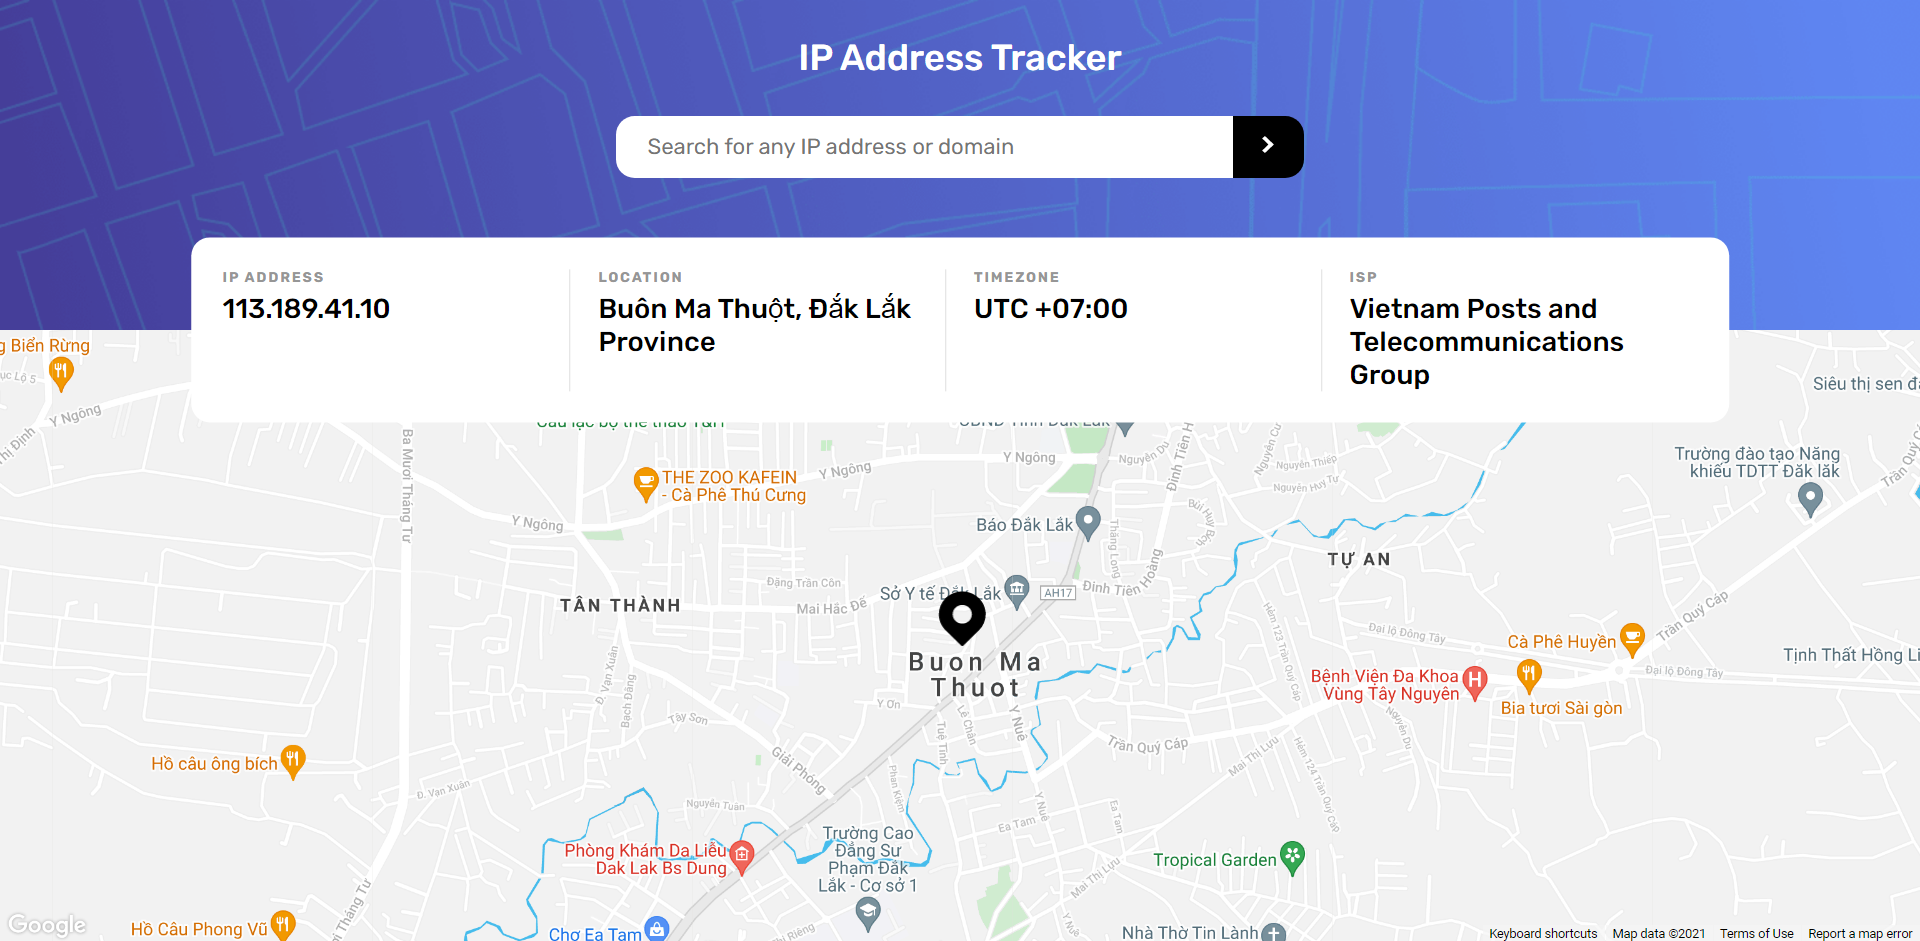
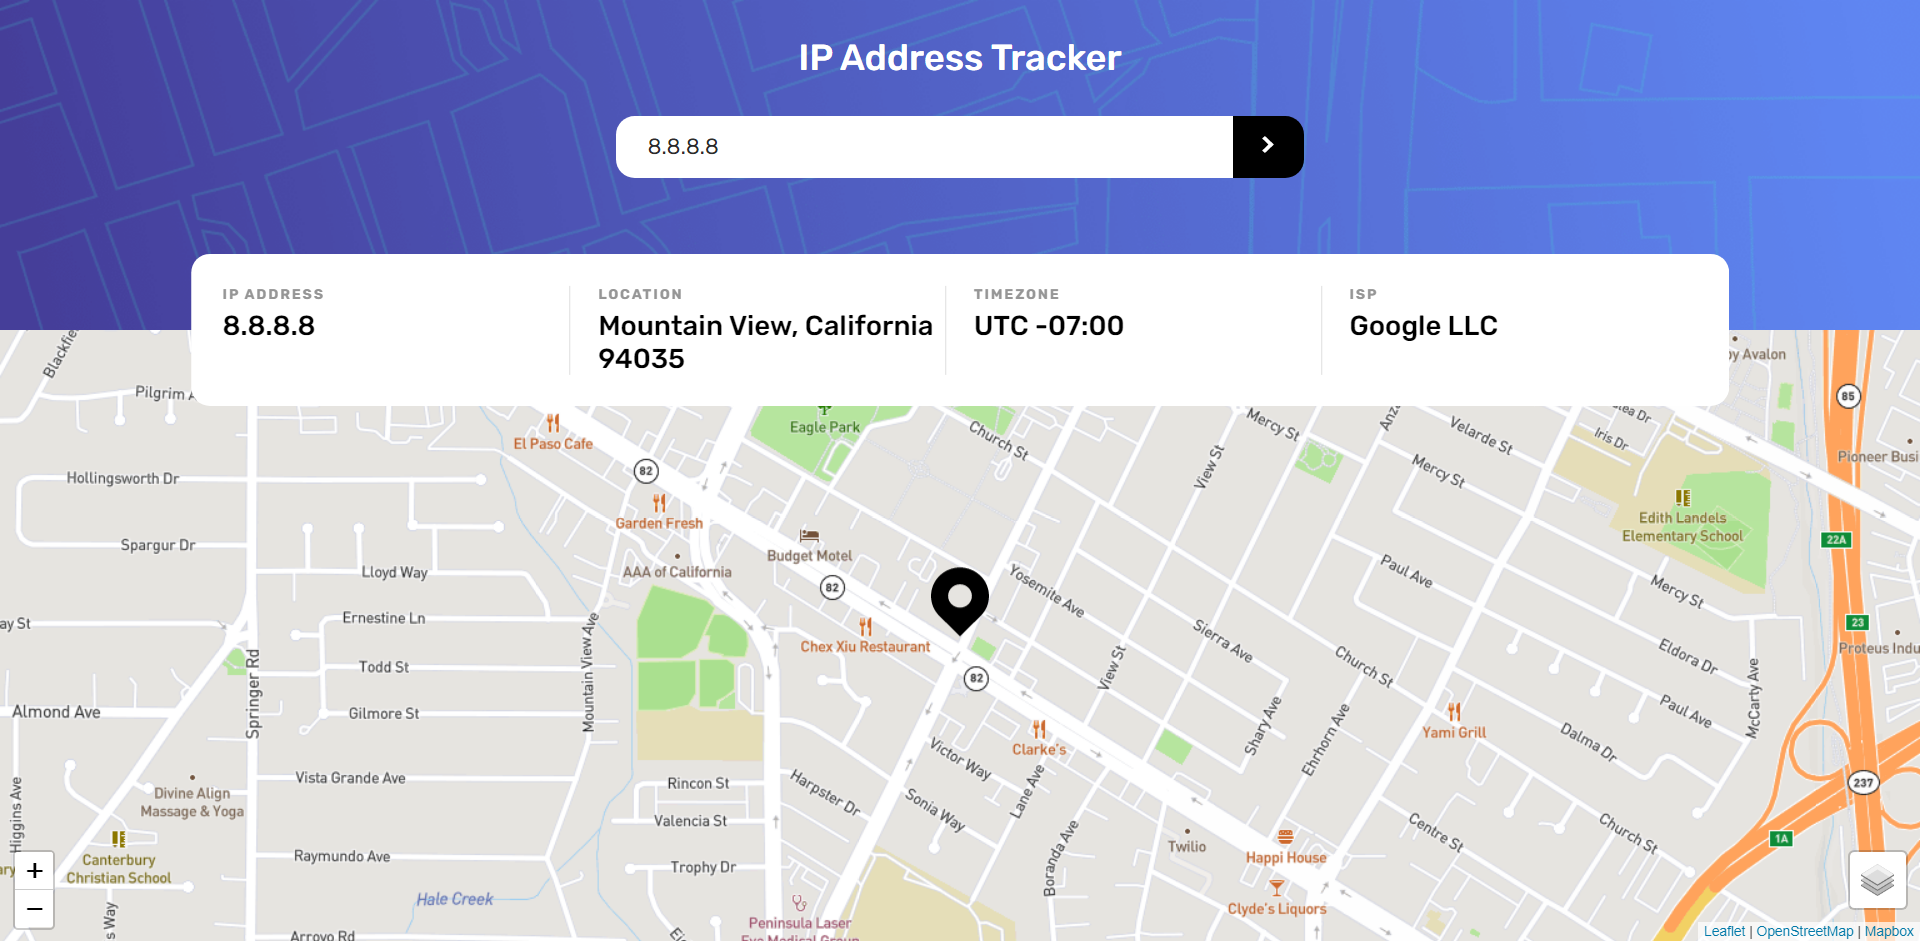
Use other api to generate map

diff --git a/ip-address-tracker/dist/assets/js/script.js b/ip-address-tracker/dist/assets/js/script.js
@@ -1,2 +1,2 @@
-const addressInput=document.querySelector(".address-input"),submitBtn=document.querySelector(".search-btn"),errorMess=document.querySelector(".error"),ipAddress=document.querySelector(".ip-address"),loc=document.querySelector(".location"),timezone=document.querySelector(".timezone"),isp=document.querySelector(".isp"),api_key="at_NV6KNutm5C29wr5oS76HFrgdWcSkH";function searchTracker(){let e=addressInput.value.trim();checkValidDomain(e)?(errorMess.classList.contains("visible")&&errorMess.classList.remove("visible"),ipTracker(e,"domain")):checkValidIpv4(e)||checkValidIpv6(e)?(errorMess.classList.contains("visible")&&errorMess.classList.remove("visible"),ipTracker(e)):(errorMess.innerText="Please enter a valid IP",errorMess.classList.add("visible"))}async function getDeviceAddress(){let e=await fetch("https://api.ipify.org?format=json");if(!e)throw new Error(`HTTP error! status: ${e.statusText}`);return await e.json()}async function ipTracker(e,t="ip"){try{let a="ipAddress="+e;"domain"===t&&(a=a.replace("ipAddress","domain"));let r=await fetch(`https://geo.ipify.org/api/v1?apiKey=${api_key}&${a}`);if(!r.ok)throw new Error(`Cannot fetch the data (${r.statusText})`);let s=await r.json();return ipAddress.innerHTML=s.ip,loc.innerHTML=s.location.city+", "+s.location.region+" "+s.location.postalCode,timezone.innerHTML="UTC "+s.location.timezone,isp.innerHTML=s.isp,getMarker(s),s}catch(e){errorMess.innerText="Bad Request!",errorMess.classList.add("visible"),console.log(e.message)}}let map,marker;function initMap(){map=new google.maps.Map(document.getElementById("map"),{zoom:15,center:{lat:16.075239,lng:108.224136},disableDefaultUI:!0,styles:mapstyles})}function getMarker(e){const t={lat:e.location.lat,lng:e.location.lng},a={path:"M39.263 7.673c8.897 8.812 8.966 23.168.153 32.065l-.153.153L23 56 6.737 39.89C-2.16 31.079-2.23 16.723 6.584 7.826l.153-.152c9.007-8.922 23.52-8.922 32.526 0zM23 14.435c-5.211 0-9.436 4.185-9.436 9.347S17.79 33.128 23 33.128s9.436-4.184 9.436-9.346S28.21 14.435 23 14.435z",fillOpacity:1,strokeWeight:0,rotation:0,scale:.8,anchor:new google.maps.Point(21,46)};marker=new google.maps.Marker({position:t,map:map,icon:a}),map.setCenter(t)}function checkValidIpv4(e){return/^(([0-9]|[1-9][0-9]|1[0-9]{2}|2[0-4][0-9]|25[0-5])\.){3}([0-9]|[1-9][0-9]|1[0-9]{2}|2[0-4][0-9]|25[0-5])$/.test(e)}function checkValidIpv6(e){return/(([0-9a-fA-F]{1,4}:){7,7}[0-9a-fA-F]{1,4}|([0-9a-fA-F]{1,4}:){1,7}:|([0-9a-fA-F]{1,4}:){1,6}:[0-9a-fA-F]{1,4}|([0-9a-fA-F]{1,4}:){1,5}(:[0-9a-fA-F]{1,4}){1,2}|([0-9a-fA-F]{1,4}:){1,4}(:[0-9a-fA-F]{1,4}){1,3}|([0-9a-fA-F]{1,4}:){1,3}(:[0-9a-fA-F]{1,4}){1,4}|([0-9a-fA-F]{1,4}:){1,2}(:[0-9a-fA-F]{1,4}){1,5}|[0-9a-fA-F]{1,4}:((:[0-9a-fA-F]{1,4}){1,6})|:((:[0-9a-fA-F]{1,4}){1,7}|:)|fe80:(:[0-9a-fA-F]{0,4}){0,4}%[0-9a-zA-Z]{1,}|::(ffff(:0{1,4}){0,1}:){0,1}((25[0-5]|(2[0-4]|1{0,1}[0-9]){0,1}[0-9])\.){3,3}(25[0-5]|(2[0-4]|1{0,1}[0-9]){0,1}[0-9])|([0-9a-fA-F]{1,4}:){1,4}:((25[0-5]|(2[0-4]|1{0,1}[0-9]){0,1}[0-9])\.){3,3}(25[0-5]|(2[0-4]|1{0,1}[0-9]){0,1}[0-9]))/.test(e)}function checkValidDomain(e){return/^(?!:\/\/)([a-zA-Z0-9-_]+\.)*[a-zA-Z0-9][a-zA-Z0-9-_]+\.[a-zA-Z]{2,11}?$/.test(e)}submitBtn.addEventListener("click",searchTracker),addressInput.addEventListener("keyup",(function(e){13===e.keyCode&&(e.preventDefault(),submitBtn.click())})),getDeviceAddress().then((e=>{ipTracker(e.ip)})).catch((e=>{console.log(e.message)}));const mapstyles=[{featureType:"administrative",elementType:"labels.text.fill",stylers:[{color:"#444444"}]},{featureType:"landscape",elementType:"all",stylers:[{color:"#f2f2f2"}]},{featureType:"landscape",elementType:"labels",stylers:[{visibility:"simplified"}]},{featureType:"poi",elementType:"all",stylers:[{visibility:"on"}]},{featureType:"road",elementType:"all",stylers:[{saturation:-100},{lightness:45}]},{featureType:"road.highway",elementType:"all",stylers:[{visibility:"on"}]},{featureType:"transit",elementType:"all",stylers:[{visibility:"off"}]},{featureType:"water",elementType:"all",stylers:[{color:"#46bcec"},{visibility:"on"}]}];
+const addressInput=document.querySelector(".address-input"),submitBtn=document.querySelector(".search-btn"),errorMess=document.querySelector(".error"),ipAddress=document.querySelector(".ip-address"),loc=document.querySelector(".location"),timezone=document.querySelector(".timezone"),isp=document.querySelector(".isp"),api_key="at_NV6KNutm5C29wr5oS76HFrgdWcSkH";let marker;const access_token="pk.eyJ1IjoiZG5ndG52IiwiYSI6ImNrdG50enNkMzA2OGsyb251cDJhOG96M3gifQ.STmoml6KJE5KtTEceP3UDw",tileUrl=`https://api.mapbox.com/styles/v1/{id}/tiles/{z}/{x}/{y}?access_token=${access_token}`,attribution='<a href="https://www.openstreetmap.org/copyright">OpenStreetMap</a> | <a href="https://www.mapbox.com/">Mapbox</a>',streets=L.tileLayer(tileUrl,{id:"mapbox/streets-v11",tileSize:512,zoomOffset:-1,maxZoom:18,attribution:attribution}),light=L.tileLayer(tileUrl,{id:"mapbox/light-v10",tileSize:512,zoomOffset:-1,maxZoom:18,attribution:attribution}),satellite=L.tileLayer(tileUrl,{id:"mapbox/satellite-v9",tileSize:512,zoomOffset:-1,maxZoom:18,attribution:attribution}),baseMaps={Streets:streets,Light:light,Satellite:satellite},mymap=L.map("map",{zoomControl:!1,center:[16.075239,108.224136],zoom:13,layers:[streets]});function getMarker(e){const t=[e.location.lat,e.location.lng],r=L.icon({iconUrl:"../../../src/images/icon-location.svg",iconAnchor:[23,56]});marker&&marker.remove(),marker=L.marker(t,{icon:r}),marker.addTo(mymap),mymap.setView(t,16)}async function getDeviceAddress(){let e=await fetch("https://api.ipify.org?format=json");if(!e)throw new Error(`HTTP error! status: ${e.statusText}`);return await e.json()}async function ipTracker(e,t="ip"){try{let r="ipAddress="+e;"domain"===t&&(r=r.replace("ipAddress","domain"));let a=await fetch(`https://geo.ipify.org/api/v1?apiKey=${api_key}&${r}`);if(!a.ok)throw new Error(`Cannot fetch the data (${a.statusText})`);let i=await a.json();return ipAddress.innerHTML=i.ip,loc.innerHTML=i.location.city+", "+i.location.region+" "+i.location.postalCode,timezone.innerHTML="UTC "+i.location.timezone,isp.innerHTML=i.isp,getMarker(i),i}catch(e){errorMess.innerText="Bad Request!",errorMess.classList.add("visible"),console.log(e.message)}}function searchTracker(){let e=addressInput.value.trim();checkValidDomain(e)?(errorMess.classList.contains("visible")&&errorMess.classList.remove("visible"),ipTracker(e,"domain")):checkValidIpv4(e)||checkValidIpv6(e)?(errorMess.classList.contains("visible")&&errorMess.classList.remove("visible"),ipTracker(e)):(errorMess.innerText="Please enter a valid IP",errorMess.classList.add("visible"))}function checkValidIpv4(e){return/^(([0-9]|[1-9][0-9]|1[0-9]{2}|2[0-4][0-9]|25[0-5])\.){3}([0-9]|[1-9][0-9]|1[0-9]{2}|2[0-4][0-9]|25[0-5])$/.test(e)}function checkValidIpv6(e){return/(([0-9a-fA-F]{1,4}:){7,7}[0-9a-fA-F]{1,4}|([0-9a-fA-F]{1,4}:){1,7}:|([0-9a-fA-F]{1,4}:){1,6}:[0-9a-fA-F]{1,4}|([0-9a-fA-F]{1,4}:){1,5}(:[0-9a-fA-F]{1,4}){1,2}|([0-9a-fA-F]{1,4}:){1,4}(:[0-9a-fA-F]{1,4}){1,3}|([0-9a-fA-F]{1,4}:){1,3}(:[0-9a-fA-F]{1,4}){1,4}|([0-9a-fA-F]{1,4}:){1,2}(:[0-9a-fA-F]{1,4}){1,5}|[0-9a-fA-F]{1,4}:((:[0-9a-fA-F]{1,4}){1,6})|:((:[0-9a-fA-F]{1,4}){1,7}|:)|fe80:(:[0-9a-fA-F]{0,4}){0,4}%[0-9a-zA-Z]{1,}|::(ffff(:0{1,4}){0,1}:){0,1}((25[0-5]|(2[0-4]|1{0,1}[0-9]){0,1}[0-9])\.){3,3}(25[0-5]|(2[0-4]|1{0,1}[0-9]){0,1}[0-9])|([0-9a-fA-F]{1,4}:){1,4}:((25[0-5]|(2[0-4]|1{0,1}[0-9]){0,1}[0-9])\.){3,3}(25[0-5]|(2[0-4]|1{0,1}[0-9]){0,1}[0-9]))/.test(e)}function checkValidDomain(e){return/^(?!:\/\/)([a-zA-Z0-9-_]+\.)*[a-zA-Z0-9][a-zA-Z0-9-_]+\.[a-zA-Z]{2,11}?$/.test(e)}L.control.layers(baseMaps,"",{position:"bottomright"}).addTo(mymap),L.control.zoom({position:"bottomleft"}).addTo(mymap),getDeviceAddress().then((e=>{ipTracker(e.ip)})).catch((e=>{console.log(e.message)})),submitBtn.addEventListener("click",searchTracker),addressInput.addEventListener("keyup",(function(e){13===e.keyCode&&(e.preventDefault(),submitBtn.click())}));
 //# sourceMappingURL=script.js.map

diff --git a/ip-address-tracker/dist/assets/css/style.css b/ip-address-tracker/dist/assets/css/style.css
@@ -1,2 +1,2 @@
-html{box-sizing:border-box;font-size:100%}*,:after,:before{box-sizing:inherit}body{font-family:Rubik,sans-serif;font-size:16px;font-weight:400;margin:0;overflow-x:hidden;padding:0}header{background:url(../../../src/images/pattern-bg.png) no-repeat;background-position:top;background-size:cover;height:19em}@media (min-width:40em){header{height:16.5em}}.header-wrapper{align-items:center;display:flex;flex-direction:column;height:100%;position:relative}.header-wrapper .heading{color:#fff;font-size:1.4rem;font-weight:500;margin:1em;text-align:center}@media (min-width:40em){.header-wrapper .heading{font-size:1.813rem}}.header-wrapper .search-wrapper{display:flex;flex-direction:row;width:min(550px,88%)}.header-wrapper .search-wrapper .address-input{border:none;border-bottom-left-radius:15px;border-top-left-radius:15px;color:#2b2b2b;cursor:pointer;flex:1;font-family:inherit;font-size:1.125rem;height:50px;outline:none;padding:0 25px;width:100%}@media (min-width:40em){.header-wrapper .search-wrapper .address-input{font-size:1.1rem}}.header-wrapper .search-wrapper .search-btn{background-color:#000;border:none;border-bottom-right-radius:15px;border-top-right-radius:15px;cursor:pointer;transition:all .4s ease;width:57px}@media (hover:hover) and (pointer:fine){.header-wrapper .search-wrapper .search-btn:hover{background-color:#2b2b2b}}.header-wrapper .error{color:#f46262;font-size:.875rem;font-weight:500;margin:.5em;opacity:0;transform:translateY(-9px);transition:all .4s ease}.header-wrapper .error.visible{display:block;opacity:1;transform:translateY(-2px)}.header-wrapper .info-wrapper{background-color:#fff;border-radius:15px;bottom:0;display:grid;left:50%;padding:25px;position:absolute;row-gap:20px;text-align:center;transform:translate(-50%,50%);width:min(76.875em,88%);z-index:100}@media (min-width:40em){.header-wrapper .info-wrapper{-moz-column-gap:22px;column-gap:22px;grid-template-columns:repeat(2,1fr);grid-template-rows:1fr 1fr;row-gap:7px;text-align:left}}@media (min-width:64em){.header-wrapper .info-wrapper{grid-template-columns:repeat(4,1fr);grid-template-rows:1fr}}@media (min-width:40em){.header-wrapper .info-wrapper .info-box:nth-child(odd){border-right:1px solid #dedede}}@media (min-width:64em){.header-wrapper .info-wrapper .info-box:not(:last-child){border-right:1px solid #dedede}}.header-wrapper .info-wrapper .info-box .info-title{color:#969696;font-size:.6rem;font-weight:700;letter-spacing:1.5px;margin:0}@media (min-width:40em){.header-wrapper .info-wrapper .info-box .info-title{font-size:.7rem}}.header-wrapper .info-wrapper .info-box .info-text{font-size:1.125rem;font-weight:500;margin:5px 0 0;word-break:break-word}@media (min-width:64em){.header-wrapper .info-wrapper .info-box .info-text{font-size:1.375rem}}.map-wrapper{height:100vh;width:100%}@media (min-width:40em){.map-wrapper{height:calc(100vh - 16.5em)}}.map-wrapper #map{height:100%;width:100%}
+html{box-sizing:border-box;font-size:100%}*,:after,:before{box-sizing:inherit}body{font-family:Rubik,sans-serif;font-size:16px;font-weight:400;margin:0;overflow-x:hidden;padding:0}header{background:url(../../../src/images/pattern-bg.png) no-repeat;background-position:top;background-size:cover;height:19em}@media (min-width:40em){header{height:16.5em}}.header-wrapper{align-items:center;display:flex;flex-direction:column;height:100%;position:relative}.header-wrapper .heading{color:#fff;font-size:1.4rem;font-weight:500;margin:1em;text-align:center}@media (min-width:40em){.header-wrapper .heading{font-size:1.813rem}}.header-wrapper .search-wrapper{display:flex;flex-direction:row;width:min(550px,88%)}.header-wrapper .search-wrapper .address-input{border:none;border-bottom-left-radius:15px;border-top-left-radius:15px;color:#2b2b2b;cursor:pointer;flex:1;font-family:inherit;font-size:1.125rem;height:50px;outline:none;padding:0 25px;width:100%}@media (min-width:40em){.header-wrapper .search-wrapper .address-input{font-size:1.1rem}}.header-wrapper .search-wrapper .search-btn{background-color:#000;border:none;border-bottom-right-radius:15px;border-top-right-radius:15px;cursor:pointer;transition:all .4s ease;width:57px}@media (hover:hover) and (pointer:fine){.header-wrapper .search-wrapper .search-btn:hover{background-color:#2b2b2b}}.header-wrapper .error{color:#f46262;font-size:.875rem;font-weight:500;margin:.5em;opacity:0;transform:translateY(-9px);transition:all .4s ease}.header-wrapper .error.visible{display:block;opacity:1;transform:translateY(-2px)}.header-wrapper .info-wrapper{background-color:#fff;border-radius:15px;bottom:0;display:grid;left:50%;padding:25px;position:absolute;row-gap:20px;text-align:center;transform:translate(-50%,50%);width:min(76.875em,88%);z-index:999}@media (min-width:40em){.header-wrapper .info-wrapper{-moz-column-gap:22px;column-gap:22px;grid-template-columns:repeat(2,1fr);grid-template-rows:1fr 1fr;row-gap:7px;text-align:left}}@media (min-width:64em){.header-wrapper .info-wrapper{grid-template-columns:repeat(4,1fr);grid-template-rows:1fr}}@media (min-width:40em){.header-wrapper .info-wrapper .info-box:nth-child(odd){border-right:1px solid #dedede}}@media (min-width:64em){.header-wrapper .info-wrapper .info-box:not(:last-child){border-right:1px solid #dedede}}.header-wrapper .info-wrapper .info-box .info-title{color:#969696;font-size:.6rem;font-weight:700;letter-spacing:1.5px;margin:0}@media (min-width:40em){.header-wrapper .info-wrapper .info-box .info-title{font-size:.7rem}}.header-wrapper .info-wrapper .info-box .info-text{font-size:1.125rem;font-weight:500;margin:5px 0 0;word-break:break-word}@media (min-width:64em){.header-wrapper .info-wrapper .info-box .info-text{font-size:1.375rem}}.map-wrapper{height:100vh;width:100%}@media (min-width:60em){.map-wrapper{height:calc(100vh - 16.5em)}}.map-wrapper #map{height:100%;width:100%}
 /*# sourceMappingURL=style.css.map */

diff --git a/ip-address-tracker/src/assets/js/index.js b/ip-address-tracker/src/assets/js/index.js
@@ -5,34 +5,39 @@ const ipAddress = document.querySelector('.ip-address');
 const loc = document.querySelector('.location');
 const timezone = document.querySelector('.timezone');
 const isp = document.querySelector('.isp');
+
+// Setting up the map
 const api_key = IPIFY_API_KEY;
+const access_token = MAPBOX_TOKEN;
+let marker;
+const tileUrl = `https://api.mapbox.com/styles/v1/{id}/tiles/{z}/{x}/{y}?access_token=${access_token}`;
+const attribution = '<a href="https://www.openstreetmap.org/copyright">OpenStreetMap</a> | <a href="https://www.mapbox.com/">Mapbox</a>';
 
-function searchTracker() {
-  let inputValue = addressInput.value.trim();
-  if (checkValidDomain(inputValue)) {
-    if (errorMess.classList.contains('visible')) {
-      errorMess.classList.remove('visible');
-    }
-    ipTracker(inputValue, 'domain');
-  } else if (checkValidIpv4(inputValue) || checkValidIpv6(inputValue)) {
-    if (errorMess.classList.contains('visible')) {
-      errorMess.classList.remove('visible');
-    }
-    ipTracker(inputValue);
-  } else {
-    errorMess.innerText = 'Please enter a valid IP';
-    errorMess.classList.add('visible');
+const streets = L.tileLayer(tileUrl, { id: 'mapbox/streets-v11', tileSize: 512, zoomOffset: -1, maxZoom: 18, attribution: attribution }),
+  light = L.tileLayer(tileUrl, { id: 'mapbox/light-v10', tileSize: 512, zoomOffset: -1, maxZoom: 18, attribution: attribution }),
+  satellite = L.tileLayer(tileUrl, { id: 'mapbox/satellite-v9', tileSize: 512, zoomOffset: -1, maxZoom: 18, attribution: attribution });
+const baseMaps = {
+  Streets: streets,
+  Light: light,
+  Satellite: satellite,
+};
+const mymap = L.map('map', { zoomControl: false, center: [16.075239, 108.224136], zoom: 13, layers: [streets] });
+L.control.layers(baseMaps, '', { position: 'bottomright' }).addTo(mymap);
+L.control.zoom({ position: 'bottomleft' }).addTo(mymap);
+
+function getMarker(info) {
+  const pos = [info.location.lat, info.location.lng];
+  const svgMarker = L.icon({
+    iconUrl: '../../../src/images/icon-location.svg',
+    iconAnchor: [23, 56],
+  });
+  if (marker) {
+    marker.remove();
   }
+  marker = L.marker(pos, { icon: svgMarker });
+  marker.addTo(mymap);
+  mymap.setView(pos, 16);
 }
-
-submitBtn.addEventListener('click', searchTracker);
-// Trigger button click on Enter key
-addressInput.addEventListener('keyup', function (e) {
-  if (e.keyCode === 13) {
-    e.preventDefault();
-    submitBtn.click();
-  }
-});
 
 async function getDeviceAddress() {
   let response = await fetch(`https://api.ipify.org?format=json`);
@@ -76,45 +81,33 @@ async function ipTracker(value, typeRequest = 'ip') {
   }
 }
 
-// Create Map with Google Maps API
-
-let map, marker;
-
-function initMap() {
-  const pos = {
-    lat: 16.075239,
-    lng: 108.224136,
-  };
-  map = new google.maps.Map(document.getElementById('map'), {
-    zoom: 15,
-    center: pos,
-    disableDefaultUI: true,
-    styles: mapstyles,
-  });
+function searchTracker() {
+  let inputValue = addressInput.value.trim();
+  if (checkValidDomain(inputValue)) {
+    if (errorMess.classList.contains('visible')) {
+      errorMess.classList.remove('visible');
+    }
+    ipTracker(inputValue, 'domain');
+  } else if (checkValidIpv4(inputValue) || checkValidIpv6(inputValue)) {
+    if (errorMess.classList.contains('visible')) {
+      errorMess.classList.remove('visible');
+    }
+    ipTracker(inputValue);
+  } else {
+    errorMess.innerText = 'Please enter a valid IP';
+    errorMess.classList.add('visible');
+  }
 }
 
-function getMarker(info) {
-  const pos = {
-    lat: info.location.lat,
-    lng: info.location.lng,
-  };
-  const svgMarker = {
-    path: 'M39.263 7.673c8.897 8.812 8.966 23.168.153 32.065l-.153.153L23 56 6.737 39.89C-2.16 31.079-2.23 16.723 6.584 7.826l.153-.152c9.007-8.922 23.52-8.922 32.526 0zM23 14.435c-5.211 0-9.436 4.185-9.436 9.347S17.79 33.128 23 33.128s9.436-4.184 9.436-9.346S28.21 14.435 23 14.435z',
-    // fillColor: 'black',
-    fillOpacity: 1,
-    strokeWeight: 0,
-    rotation: 0,
-    scale: 0.8,
-    anchor: new google.maps.Point(21, 46),
-  };
-  marker = new google.maps.Marker({
-    position: pos,
-    map: map,
-    icon: svgMarker,
-    // icon: '../../../src/images/icon-location.svg',
-  });
-  map.setCenter(pos);
-}
+submitBtn.addEventListener('click', searchTracker);
+
+// Trigger button click on Enter key
+addressInput.addEventListener('keyup', function (e) {
+  if (e.keyCode === 13) {
+    e.preventDefault();
+    submitBtn.click();
+  }
+});
 
 function checkValidIpv4(value) {
   const pattern = /^(([0-9]|[1-9][0-9]|1[0-9]{2}|2[0-4][0-9]|25[0-5])\.){3}([0-9]|[1-9][0-9]|1[0-9]{2}|2[0-4][0-9]|25[0-5])$/;

diff --git a/ip-address-tracker/index.html b/ip-address-tracker/index.html
@@ -12,6 +12,19 @@
     <link rel="preconnect" href="https://fonts.googleapis.com" />
     <link rel="preconnect" href="https://fonts.gstatic.com" crossorigin />
     <link href="https://fonts.googleapis.com/css2?family=Rubik:wght@400;500;700&display=swap" rel="stylesheet" />
+
+    <link
+      rel="stylesheet"
+      href="https://unpkg.com/leaflet@1.7.1/dist/leaflet.css"
+      integrity="sha512-xodZBNTC5n17Xt2atTPuE1HxjVMSvLVW9ocqUKLsCC5CXdbqCmblAshOMAS6/keqq/sMZMZ19scR4PsZChSR7A=="
+      crossorigin=""
+    />
+    <script
+      src="https://unpkg.com/leaflet@1.7.1/dist/leaflet.js"
+      integrity="sha512-XQoYMqMTK8LvdxXYG3nZ448hOEQiglfqkJs1NOQV44cWnUrBc8PkAOcXy20w0vlaXaVUearIOBhiXZ5V3ynxwA=="
+      crossorigin=""
+    ></script>
+
     <link rel="stylesheet" href="./dist/assets/css/style.css" />
   </head>
   <body>
@@ -49,10 +62,5 @@
       <div id="map"></div>
     </section>
     <script src="./dist/assets/js/script.js"></script>
-    <script
-      src="https://maps.googleapis.com/maps/api/js?key=AIzaSyCgmtipOujZVZiGUajhtDxt9VBFYefni5U&callback=initMap&libraries=&v=weekly"
-      async
-      defer
-    ></script>
   </body>
 </html>

diff --git a/ip-address-tracker/src/assets/scss/_header.scss b/ip-address-tracker/src/assets/scss/_header.scss
@@ -78,7 +78,7 @@ header {
   .info-wrapper {
     position: absolute;
     width: min(76.875em, 88%);
-    z-index: 100;
+    z-index: 999;
     text-align: center;
     left: 50%;
     bottom: 0;

diff --git a/ip-address-tracker/src/assets/scss/_map.scss b/ip-address-tracker/src/assets/scss/_map.scss
@@ -3,7 +3,7 @@
 .map-wrapper {
   width: 100%;
   height: 100vh;
-  @media (min-width: 40em) {
+  @media (min-width: 60em) {
     height: calc(100vh - #{$headerHeight});
   }
   #map {

diff --git a/ip-address-tracker/README.md b/ip-address-tracker/README.md
@@ -10,7 +10,6 @@ This is a solution to the [IP address tracker challenge on Frontend Mentor](http
   - [Links](#links)
 - [My process](#my-process)
   - [Built with](#built-with)
-  - [Useful resources](#useful-resources)
 - [Author](#author)
 
 ## Overview
@@ -40,10 +39,6 @@ Users should be able to:
 - Semantic HTML5 markup
 - SCSS
 - Javascript
-
-### Useful resources
-
-- [Maps Javascript Api](https://developers.google.com/maps/documentation/javascript/overview) - Google Maps Platform.
 
 ## Author
 
